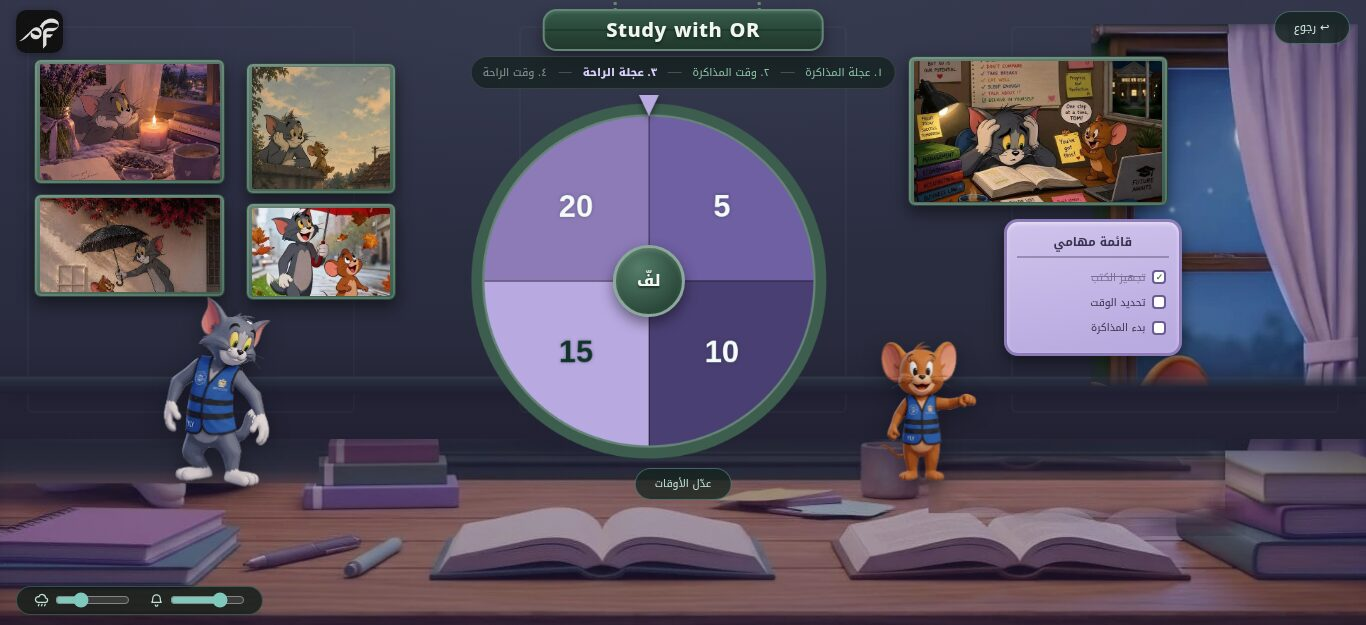
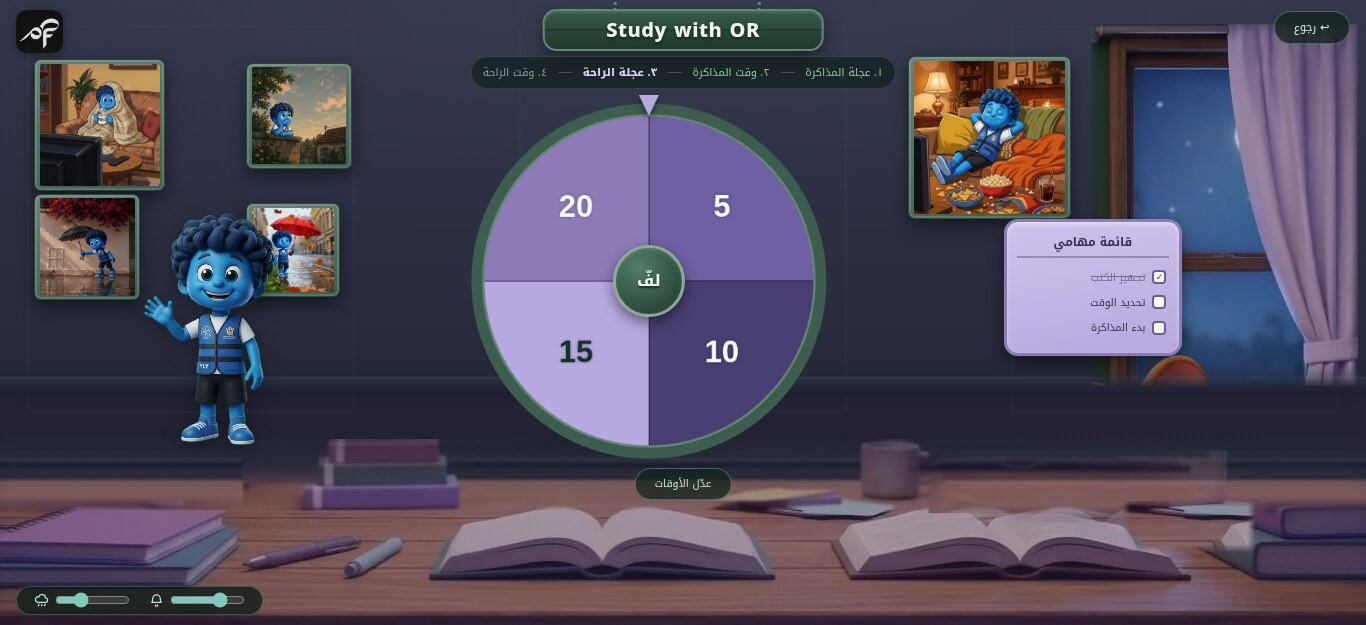
Update README and docs screenshots for the blue mascot version

diff --git a/README.md b/README.md
@@ -1,6 +1,6 @@
 # Study with OR
 
-A Tom & Jerry themed study companion with a spin wheel, focus timer, and a session checklist.
+A study companion with a friendly blue mascot, a spin wheel, a focus timer, and a session checklist.
 **Live demo:** https://mahmoudfouad10.github.io/study-with-or/
 
 ![Study wheel](docs/study-wheel.jpg)
@@ -9,51 +9,22 @@ A Tom & Jerry themed study companion with a spin wheel, focus timer, and a sessi
 
 ## Key Features
 
-- **Spin wheel sessions** - spin to pick a study session (25/30/45/50/60/90 min) or a rest break (5/10/15/20 min); the pointer always lands on the drawn result.
-- **Focus timer** - manual start, pause and reset, a chime when time ends, and the characters freeze with you while you work.
+- **Spin wheel sessions** - spin to pick a study session (25/30/45/50/60/90 min) or a rest break (5/10/15/20 min); the mascot pushes the wheel and the pointer always lands on the drawn result.
+- **Focus timer** - manual start, pause and reset, a chime when time ends, and the mascot celebrates with you when you finish.
 - **Full session flow** - study wheel leads into the study timer, then the rest wheel, then the rest timer.
 - **Editable times** - the "عدّل الأوقات" button lets you change every slice on the current wheel (1-180 min each).
 - **Session checklist** - a small to-do panel (قائمة مهامي) for the steps of your session.
-- **Tom & Jerry room** - animated poses while the wheel spins, picture frames that enlarge on click (Esc closes), and separate volume sliders.
+- **Animated mascot room** - original blue YLY mascot brought to life with transparent WebM video loops (with poster fallback), picture frames that enlarge on click (Esc closes), and separate volume sliders for rain and chime.
 - **Works on phone and desktop** - dedicated compact layout for small screens, Arabic RTL interface.
 
 ## Tech Stack
 
 - HTML5, CSS3, vanilla JavaScript - no frameworks, no build step
-- Canvas API for the wheels, Web Audio API for the chime and spin sounds
-- Images as compressed WebP, intro as an MP4 loaded at runtime
+- Canvas API for the wheels, Web Audio API for the chime and rain ambience
+- Transparent VP9 WebM video with PNG poster fallback, images as compressed WebP
 - Hosted on GitHub Pages straight from this repo
 
 ## Run Locally
 
 1. `git clone https://github.com/mahmoudfouad10/study-with-or.git && cd study-with-or`
 2. Serve the folder with any static server, e.g. `python3 -m http.server 8000`, then open http://localhost:8000
-
-(A static server is needed because the intro video is fetched at runtime; opening index.html directly from disk skips the intro.)
-
-## Project Structure
-
-```
-index.html    page markup + meta/Open Graph tags
-style.css     all styling, including the phone layout
-app.js        wheel drawing + spin logic, timer, poses, lightbox, sound
-assets/       WebP images, logo, intro.mp4, og.jpg (link-preview image)
-docs/         screenshots used in this README
-```
-
-## Editing the Session Times
-
-- In the page: click "عدّل الأوقات" under the wheel, edit the values, confirm.
-- In the code: the defaults live at the top of `app.js` in `S.studyVals` and `S.restVals`.
-
-## Publishing
-
-The site is served by GitHub Pages from the `main` branch root: push to `main` and
-https://mahmoudfouad10.github.io/study-with-or/ updates within a minute or two.
-
-## Roadmap
-
-- Lazy-load the spin-pose frames and the artwork of the inactive mode to cut first-load weight further
-- Offline support with a service worker
-- Optional color themes beyond the current forest-green / lavender pair
-- Session history (completed study/rest rounds) kept in localStorage
